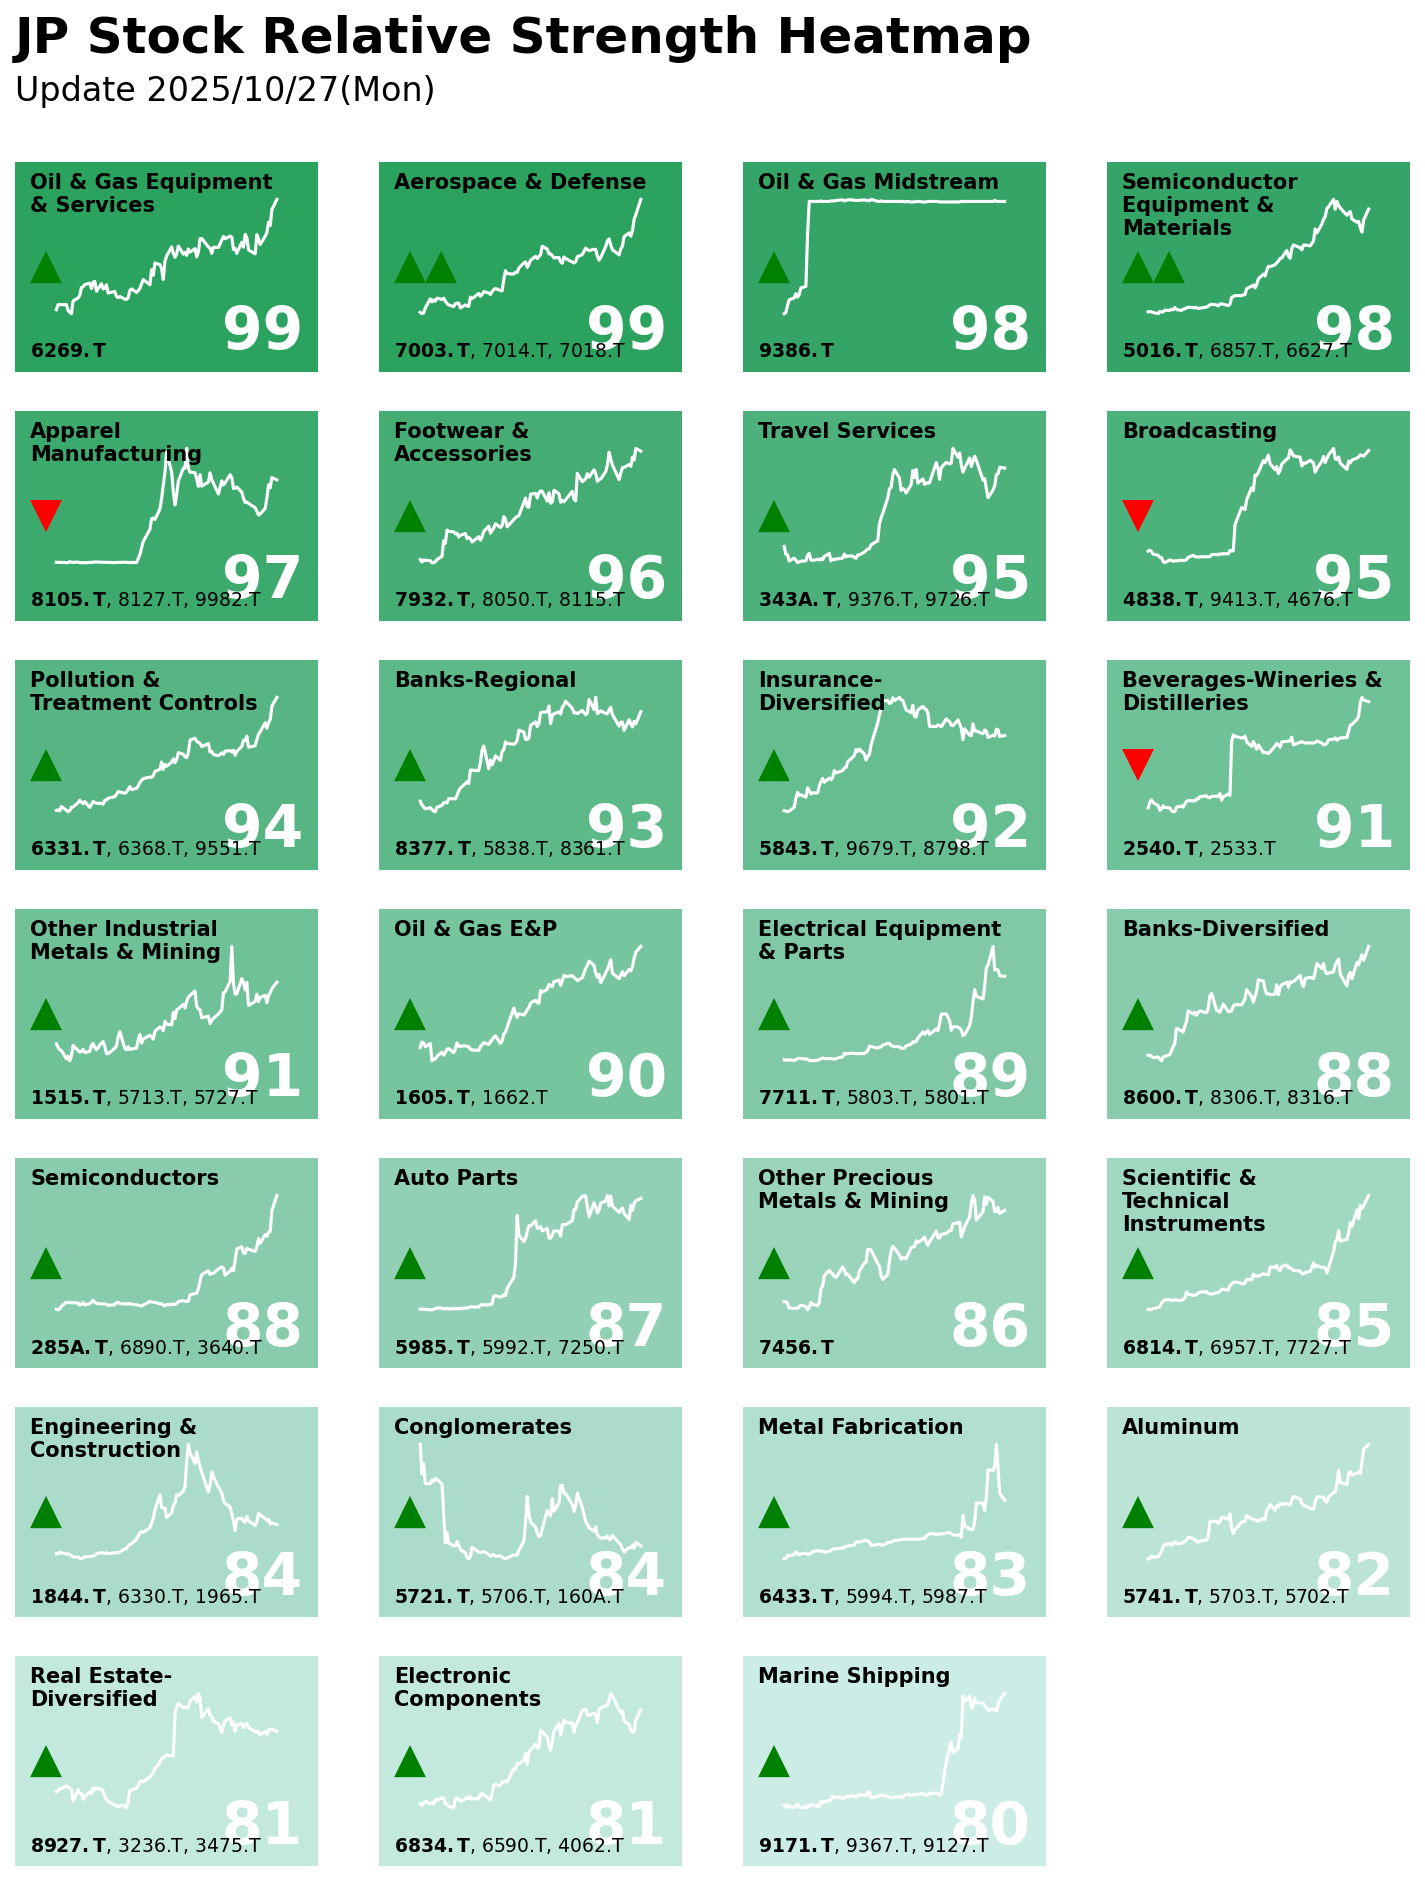
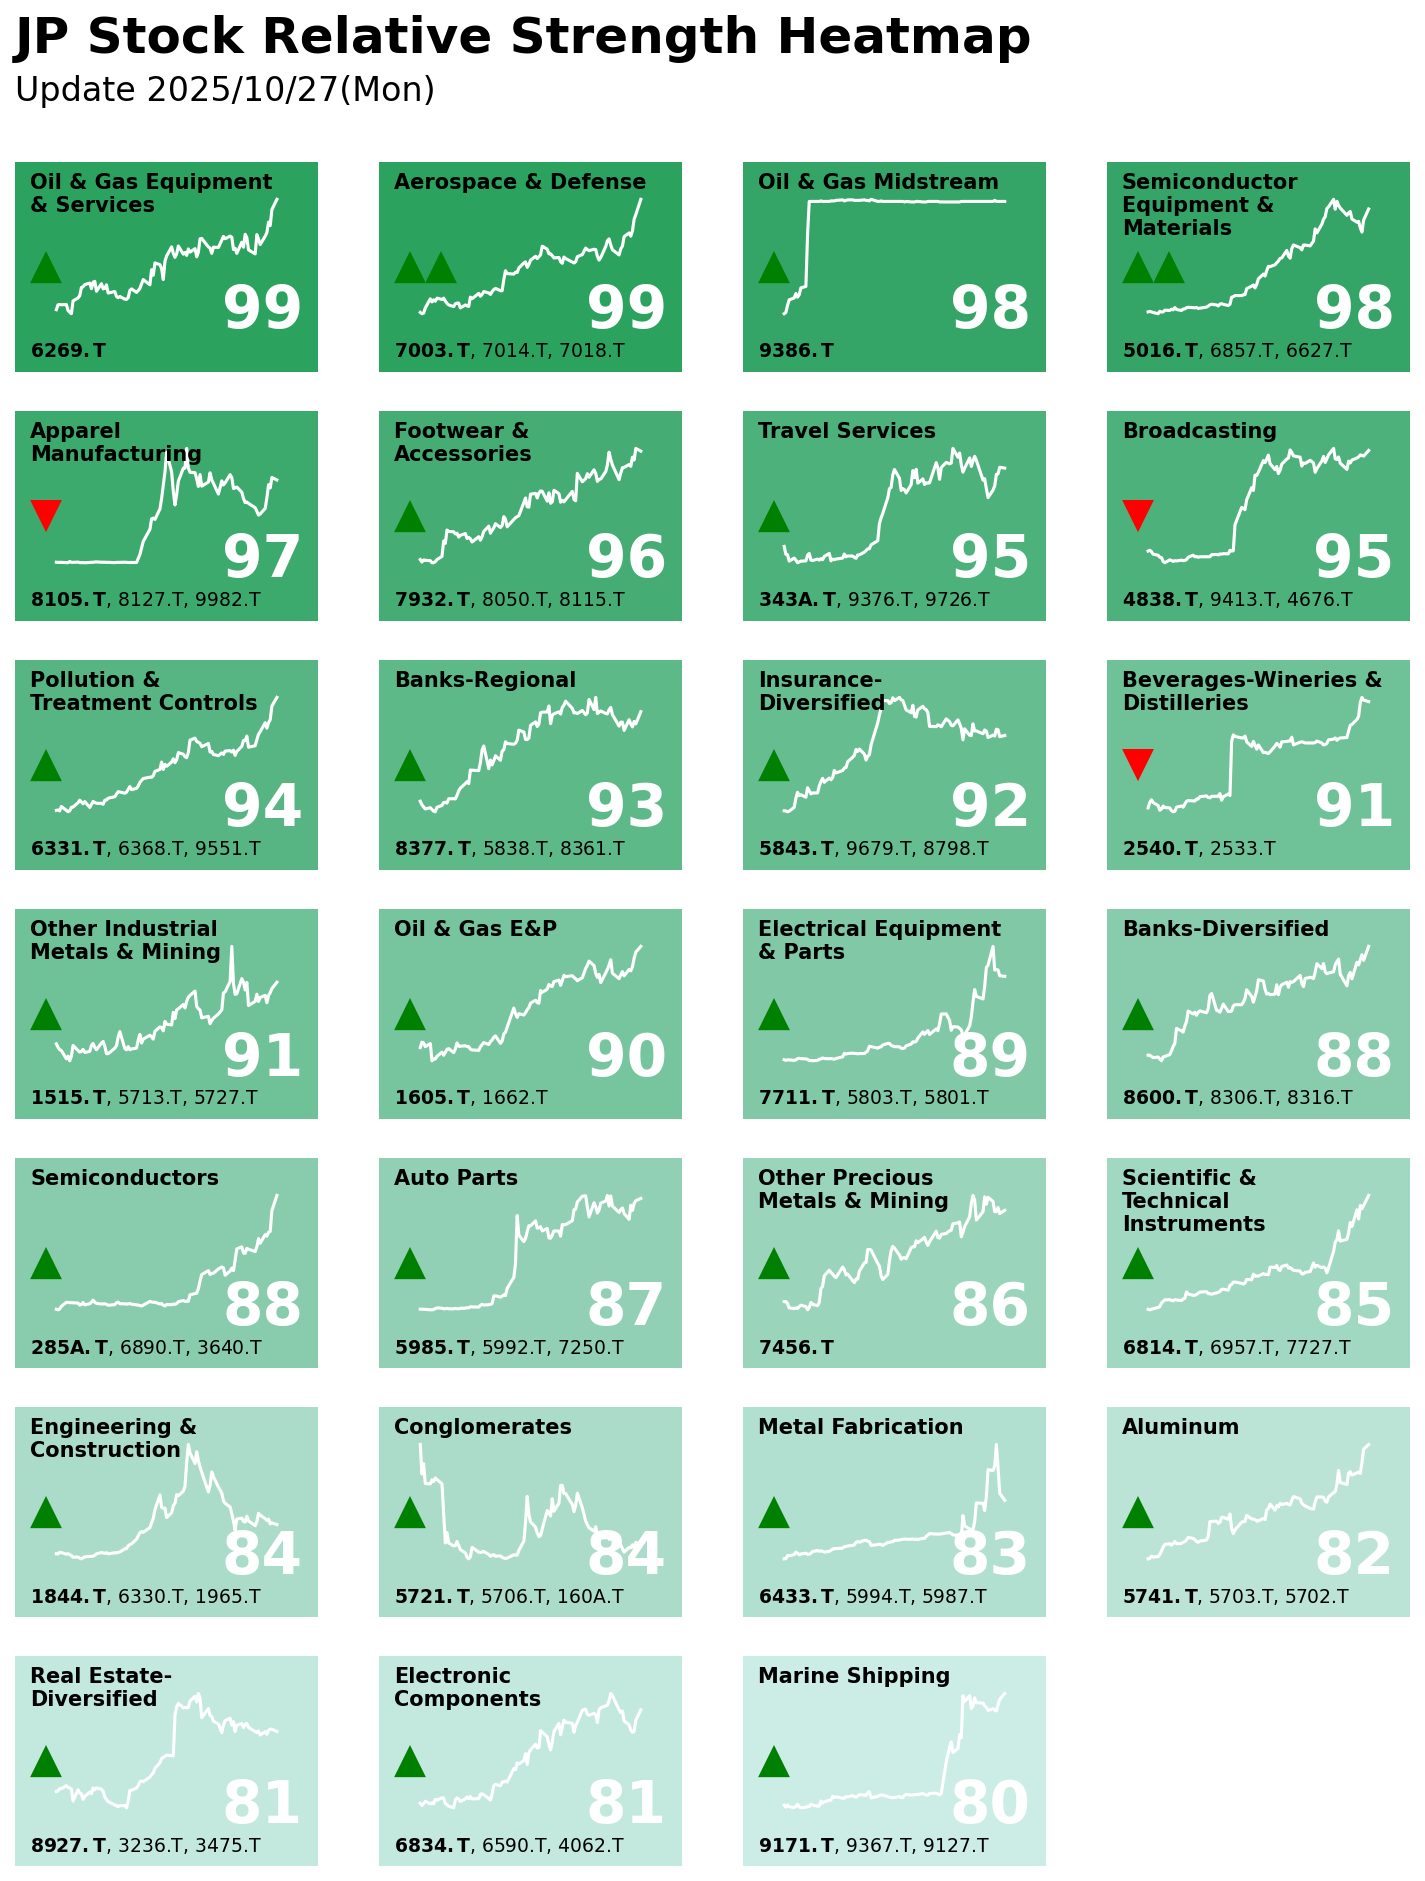
feat: Parameterize createRSheatmap.py for US/JP data
Refactored the `createRSheatmap.py` script to support both US and Japanese stock market data.

Key changes:
- Introduced command-line arguments (`--region` and `--csv_path`) to specify the target market (US or JP) and the input data file.
- Made the chart title and the output filename dynamic based on the selected region.
- Explicitly set `auto_adjust=True` in the `yf.download()` call to resolve a `FutureWarning`.
- Adjusted the vertical alignment of the RS rating text within each heatmap cell to improve layout and prevent text overlap.

diff --git a/createRSheatmap.py b/createRSheatmap.py
@@ -134,7 +134,7 @@ def create_heatmap(csv_path, output_path, region):
         ax.text(0.05, 0.5, arrow, transform=ax.transAxes, fontsize=20, color=color, va='center', ha='left')
 
         # RS Rating (bottom-right)
-        ax.text(0.95, 0.05, f"{int(rs_rating)}", transform=ax.transAxes, fontsize=28, fontweight='bold', color='white', ha='right', va='bottom')
+        ax.text(0.95, 0.15, f"{int(rs_rating)}", transform=ax.transAxes, fontsize=28, fontweight='bold', color='white', ha='right', va='bottom')
 
         # Top 3 Tickers (bottom-left) - first one bold
         if len(tickers) > 0:
